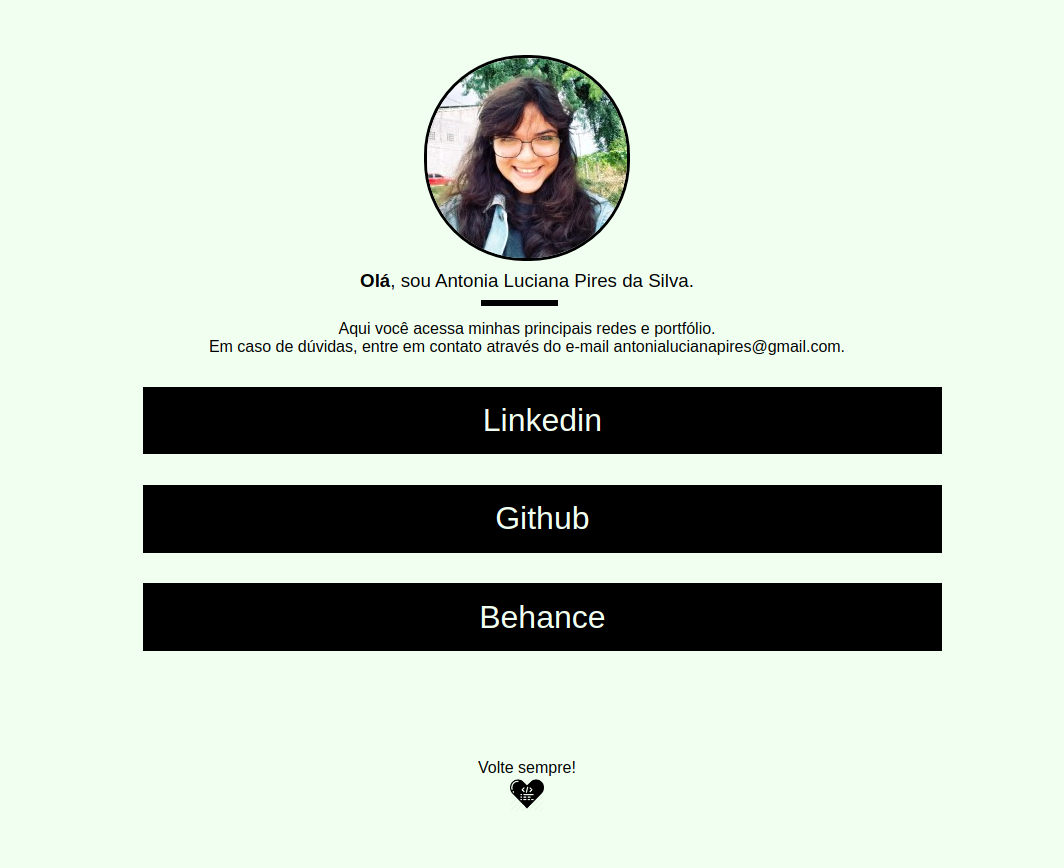
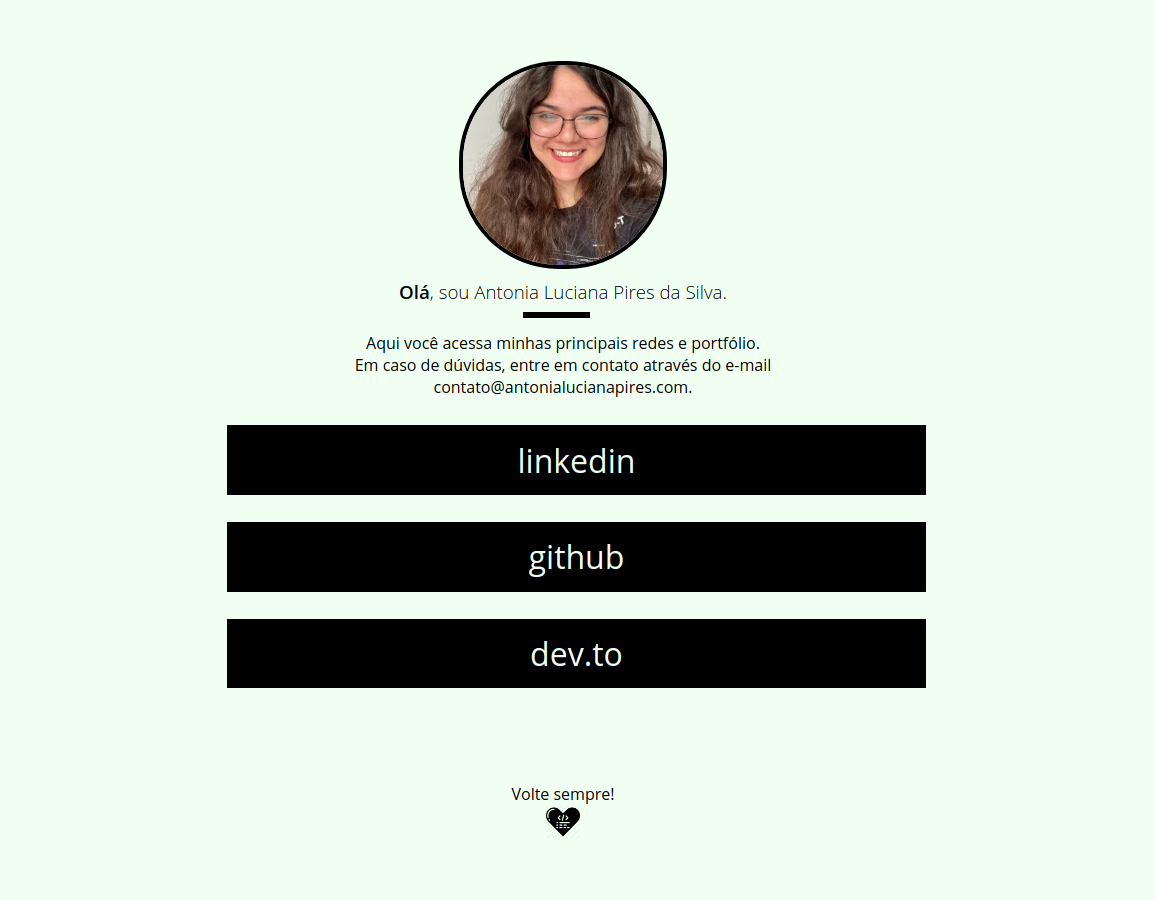
Versão 1.1

Changed region(s): [[0.1241, 0.0622, 0.8994, 0.7776], [0.4342, 0.871, 0.5583, 0.9332]]

diff --git a/index.html b/index.html
@@ -14,21 +14,21 @@
     <section id="container">
         <section class="foto">
             <div><img
-                    src="https://media-exp1.licdn.com/dms/image/C4E03AQGDUxAHRt00vA/profile-displayphoto-shrink_200_200/0?e=1585180800&v=beta&t=IPb-0GLIqMTaCdwAvlI8IqgcIlxELo9uWhlG8Ol07XU"
+                    src="https://res.cloudinary.com/practicaldev/image/fetch/s--nRf_fN1---/c_fill,f_auto,fl_progressive,h_320,q_auto,w_320/https://dev-to-uploads.s3.amazonaws.com/uploads/user/profile_image/222838/97df978a-3e06-46eb-875b-98e52190ff33.jpeg"
                     alt=""></div>
             <div class="descricao">
                 <h1><span>Olá</span>, sou Antonia Luciana Pires da Silva.</h1>
-                <p>Aqui você acessa minhas principais redes e portfólio. <br>Em caso de dúvidas, entre em contato através do e-mail <a href="mailto: antonialucianapires@gmail.com">antonialucianapires@gmail.com</a>.</p>
+                <p>Aqui você acessa minhas principais redes e portfólio. <br>Em caso de dúvidas, entre em contato através do e-mail <a href="mailto: contato@antonialucianapires.com">contato@antonialucianapires.com</a>.</p>
             </div>
         </section>
         <div class="link">
-            <a class="btnLink" href="https://www.linkedin.com/in/antonialucianapires/" target="_blank">Linkedin</a>
+            <a class="btnLink" href="https://www.linkedin.com/in/antonialucianapires/" target="_blank">linkedin</a>
         </div>
         <div class="link">
-            <a class="btnLink" href="https://github.com/antonialucianapires" target="_blank">Github</a>
+            <a class="btnLink" href="https://github.com/antonialucianapires" target="_blank">github</a>
         </div>
         <div class="link">
-            <a class="btnLink" href="https://www.behance.net/antonialucianapires" target="_blank">Behance</a>
+            <a class="btnLink" href="https://dev.to/antonialucianapires" target="_blank">dev.to</a>
         </div>
         <footer>
             <p>Volte sempre!</p>

diff --git a/style.css b/style.css
@@ -9,7 +9,7 @@ body {
 }
 
 #container {
-    width: 80%;
+    width: 70%;
     margin: 0 auto;
     display: flex;
     flex-direction: column;
@@ -26,7 +26,8 @@ body {
 }
 
 .foto img {
-    border: 3px solid black;
+    width: 200px;
+    border: 4px solid black;
     border-radius: 100px;
 }
 
